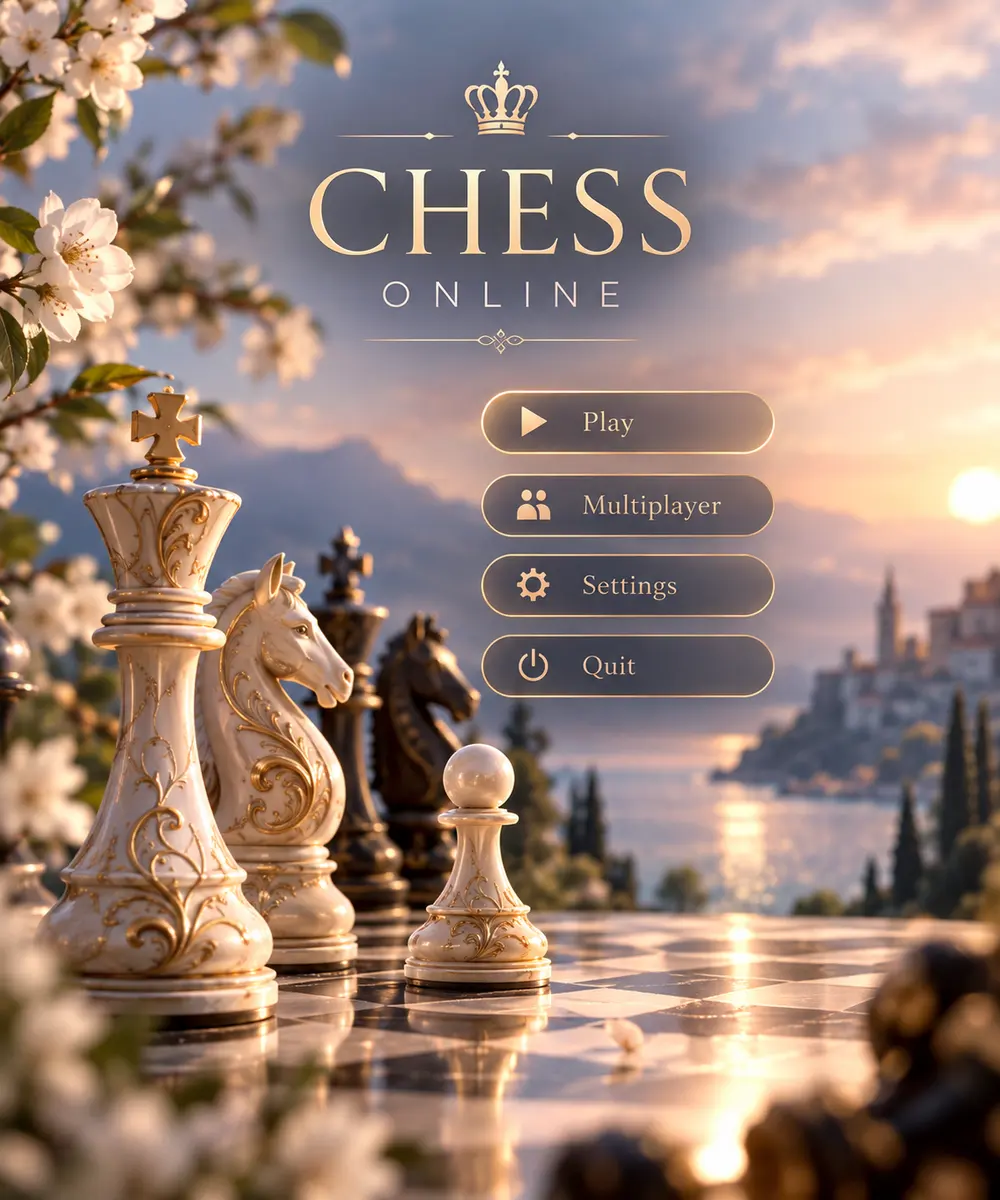
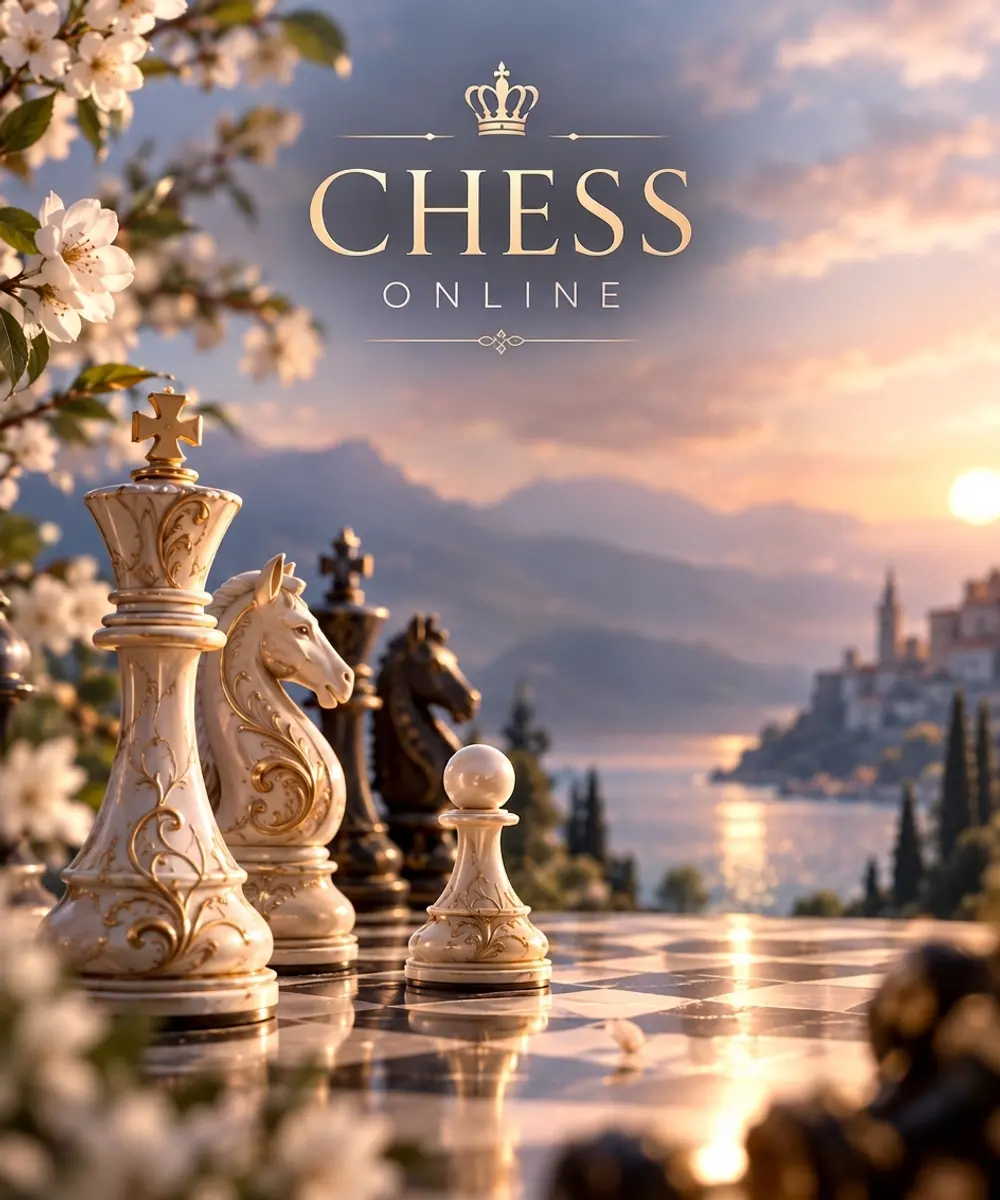
Replace mobile menu art, drop button backdrops it no longer needs
The new portrait key-art carries no baked-in mock UI (no "Play/
Multiplayer/…" labels to hide), so the flat backing added behind the
button stack and the join-link pill last round are gone — back to plain
individual rows straight over the art. Converted the new photo to WebP
(70KB) for the same fast-load treatment as the rest of the background art.

v1.2.

Claude-Session: https://claude.ai/code/session_014tt24enCEeeRXDWSzic8nW

diff --git a/src/style.css b/src/style.css
@@ -222,14 +222,6 @@ button {
   display: flex;
   flex-direction: column;
   gap: 1rem;
-  /* A flat, unblurred backing behind the whole button stack — no blur anywhere in this menu.
-     Each button is already opaque on its own; this just covers the narrow gaps between them
-     (and around them) so the key-art's own baked-in "Play/Multiplayer/…" mock labels don't
-     peek through there. */
-  padding: 0.6rem;
-  margin: -0.6rem;
-  border-radius: 26px;
-  background: rgba(6, 5, 10, 0.88);
 }
 
 /* Pill buttons styled after the key-art's own mock UI: a dark glass capsule, gold icon in a
@@ -364,9 +356,7 @@ button {
   color: var(--gold);
   font-family: "Cinzel", serif;
   letter-spacing: 0.02em;
-  padding: 0.4rem 0.9rem;
-  border-radius: 999px;
-  background: rgba(6, 5, 10, 0.65);
+  text-shadow: 0 2px 10px rgba(0, 0, 0, 0.9), 0 0 4px rgba(0, 0, 0, 0.8);
 }
 
 .section-title {

diff --git a/src/version.ts b/src/version.ts
@@ -1,2 +1,2 @@
 /** Bumped with each round of shipped changes: 1.0, 1.1, 1.2, … */
-export const APP_VERSION = "1.1";
+export const APP_VERSION = "1.2";
